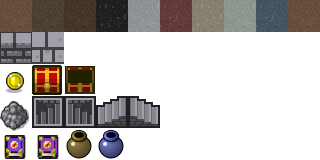
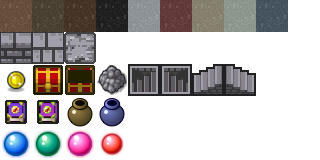
バリア、宝玉、リセットボタンの画像を変更

Changed region(s): [[0.0, 0.1875, 0.8125, 1.0], [0.875, 0.0, 1.0, 0.2188], [0.0938, 0.3125, 0.125, 0.3438]]

diff --git a/src/stages/3/game.js b/src/stages/3/game.js
@@ -119,7 +119,7 @@ function resetMap() {
 
 	const itemGem1 = new RPGObject();
 	flagGem1 = false;	
-	itemGem1.mod(('▼ スキン', _tつぼ));
+	itemGem1.mod(('▼ スキン', Hack.assets.blueOrb));
 	itemGem1.hp = 1;
 	itemGem1.locate(4, 3, 'map1');
 	itemGem1.tl.moveBy(0, 96, 60).moveBy(0, -96, 60).loop();
@@ -134,7 +134,7 @@ function resetMap() {
 
 	const itemGem2 = new RPGObject();
 	flagGem2 = false;	
-	itemGem2.mod(('▼ スキン', _tつぼ));
+	itemGem2.mod(('▼ スキン', Hack.assets.greenOrb));
 	itemGem2.hp = 1;
 	itemGem2.locate(10, 6, 'map1');
 	itemGem2.tl.moveBy(0, -96, 60).moveBy(0, 96, 60).loop();
@@ -149,7 +149,7 @@ function resetMap() {
 
 	const itemGem3 = new RPGObject();
 	flagGem3 = false;
-	itemGem3.mod(('▼ スキン', _tつぼ));
+	itemGem3.mod(('▼ スキン', Hack.assets.pinkOrb));
 	itemGem3.hp = 1;
 	itemGem3.locate(8, 2, 'map1');
 	itemGem3.tl.moveBy(-64, 0, 60).moveBy(64, 0, 60).loop();
@@ -160,9 +160,9 @@ function resetMap() {
 			itemBarrier.visible = false;
 		}
 	});
-	const itemBarrier = new Sprite(160, 128);
+	const itemBarrier = new Sprite(160, 96);
 	itemBarrier.image = game.assets['resources/barrier'];
-	itemBarrier.moveTo(160, 96);
+	itemBarrier.moveTo(160, 100);
 	itemBarrier.opacity = 0.3;
 	Hack.defaultParentNode.addChild(itemBarrier);
 

diff --git a/src/stages/common.js b/src/stages/common.js
@@ -16,9 +16,9 @@ const common = () => {
 	// Hack.menuGroup.addChild(stopButton);
 	
 	// ゲームリセットボタン
-	const resetButton = new enchant.Sprite(80, 20);
+	const resetButton = new enchant.Sprite(64, 64);
 	resetButton.image = game.assets['resources/reset_button'];
-	resetButton.moveTo(0, 296);
+	resetButton.moveTo(0, 320 - 64);
 	resetButton.ontouchstart = () => {
 		Hack.dispatchEvent(new Event('reset'));
 		// リセットはストップをかねる

diff --git a/src/hackforplay/rpg-kit-main.js b/src/hackforplay/rpg-kit-main.js
@@ -203,11 +203,14 @@ MapObject.dictionary = {
 	coin: 20,
 	box: 21,
 	openedBox: 22,
-	downStair: 32,
-	upStair: 34,
-	pot: 42,
-	beam: 30,
-	stoneWall: 30,
+	downStair: 25,
+	upStair: 26,
+	pot: 32,
+	beam: 23,
+	stoneWall: 23,
+	blueOrb: 40,
+	greenOrb: 41,
+	pinkOrb: 42,
 
 	// 新仕様公式定義
 	// clay: 320,

diff --git a/src/hackforplay/rpg-kit-rpgobjects.js b/src/hackforplay/rpg-kit-rpgobjects.js
@@ -498,7 +498,7 @@ Hack.assets.ouroboros = function() {
 Hack.assets.barrier = function() {
 	this.image = game.assets['resources/barrier'];
 	this.width = 160;
-	this.height = 128;
+	this.height = 96;
 	this.offset = {
 		x: 0,
 		y: 0
